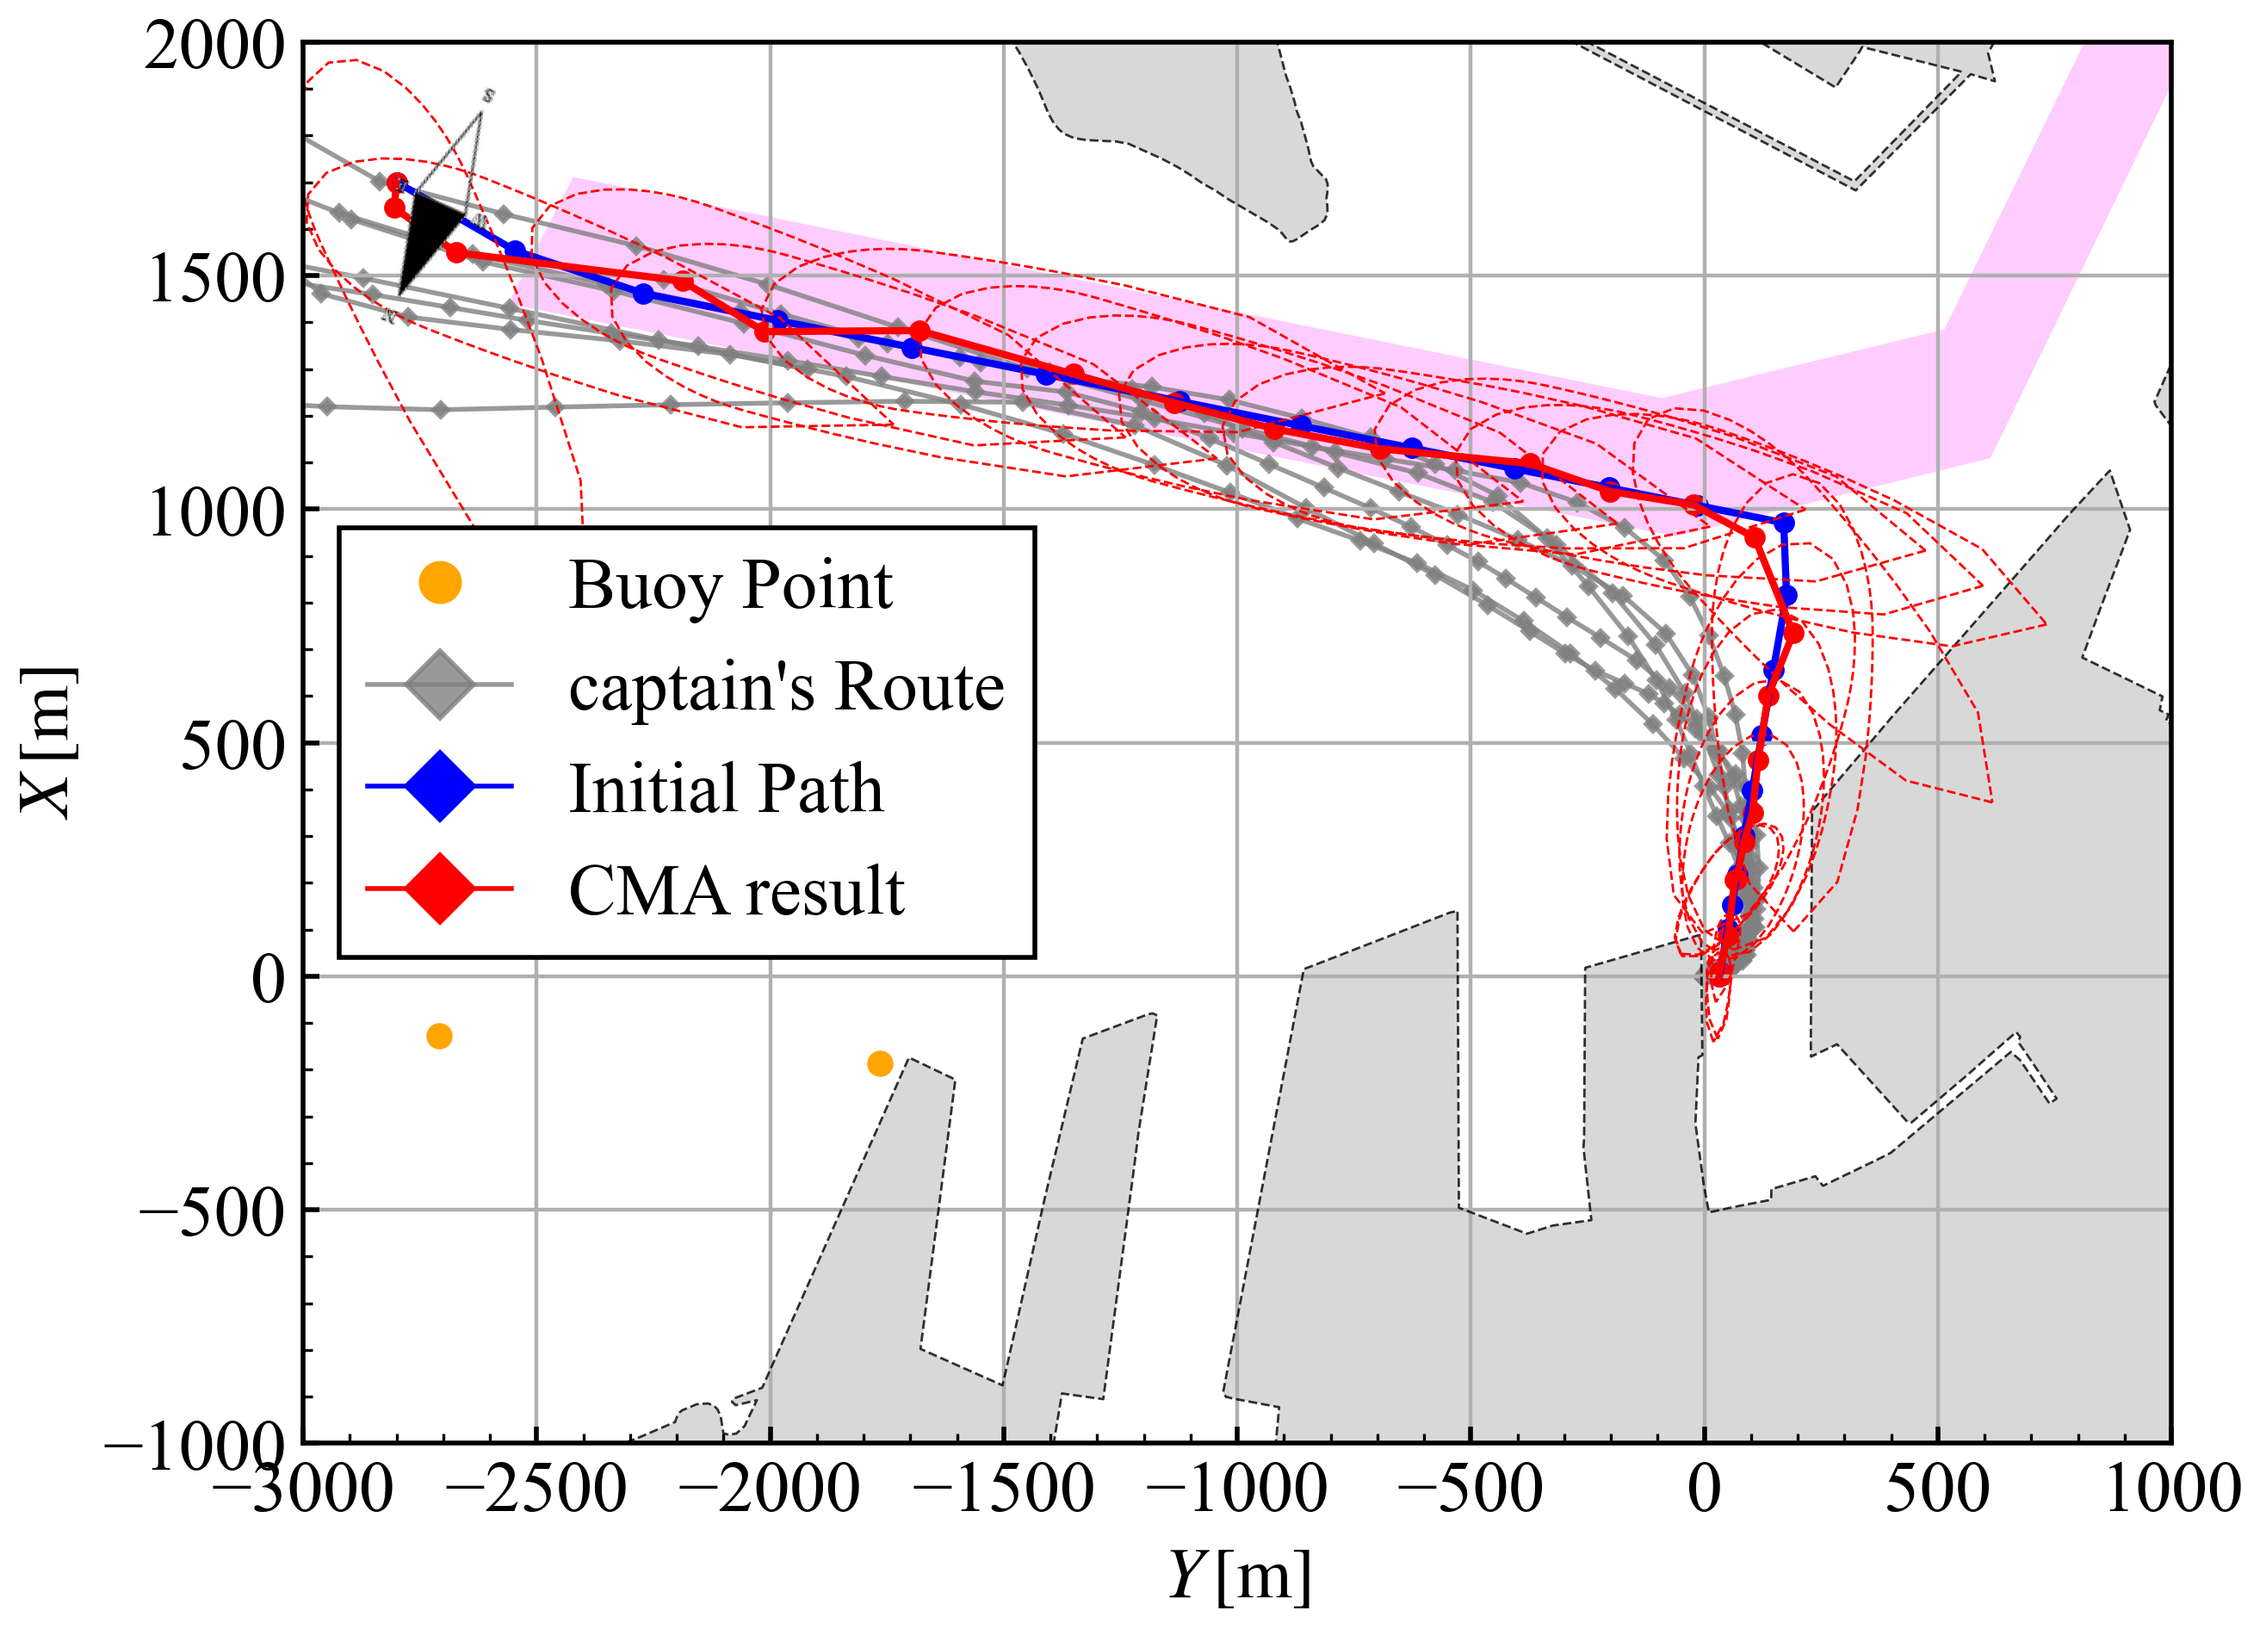
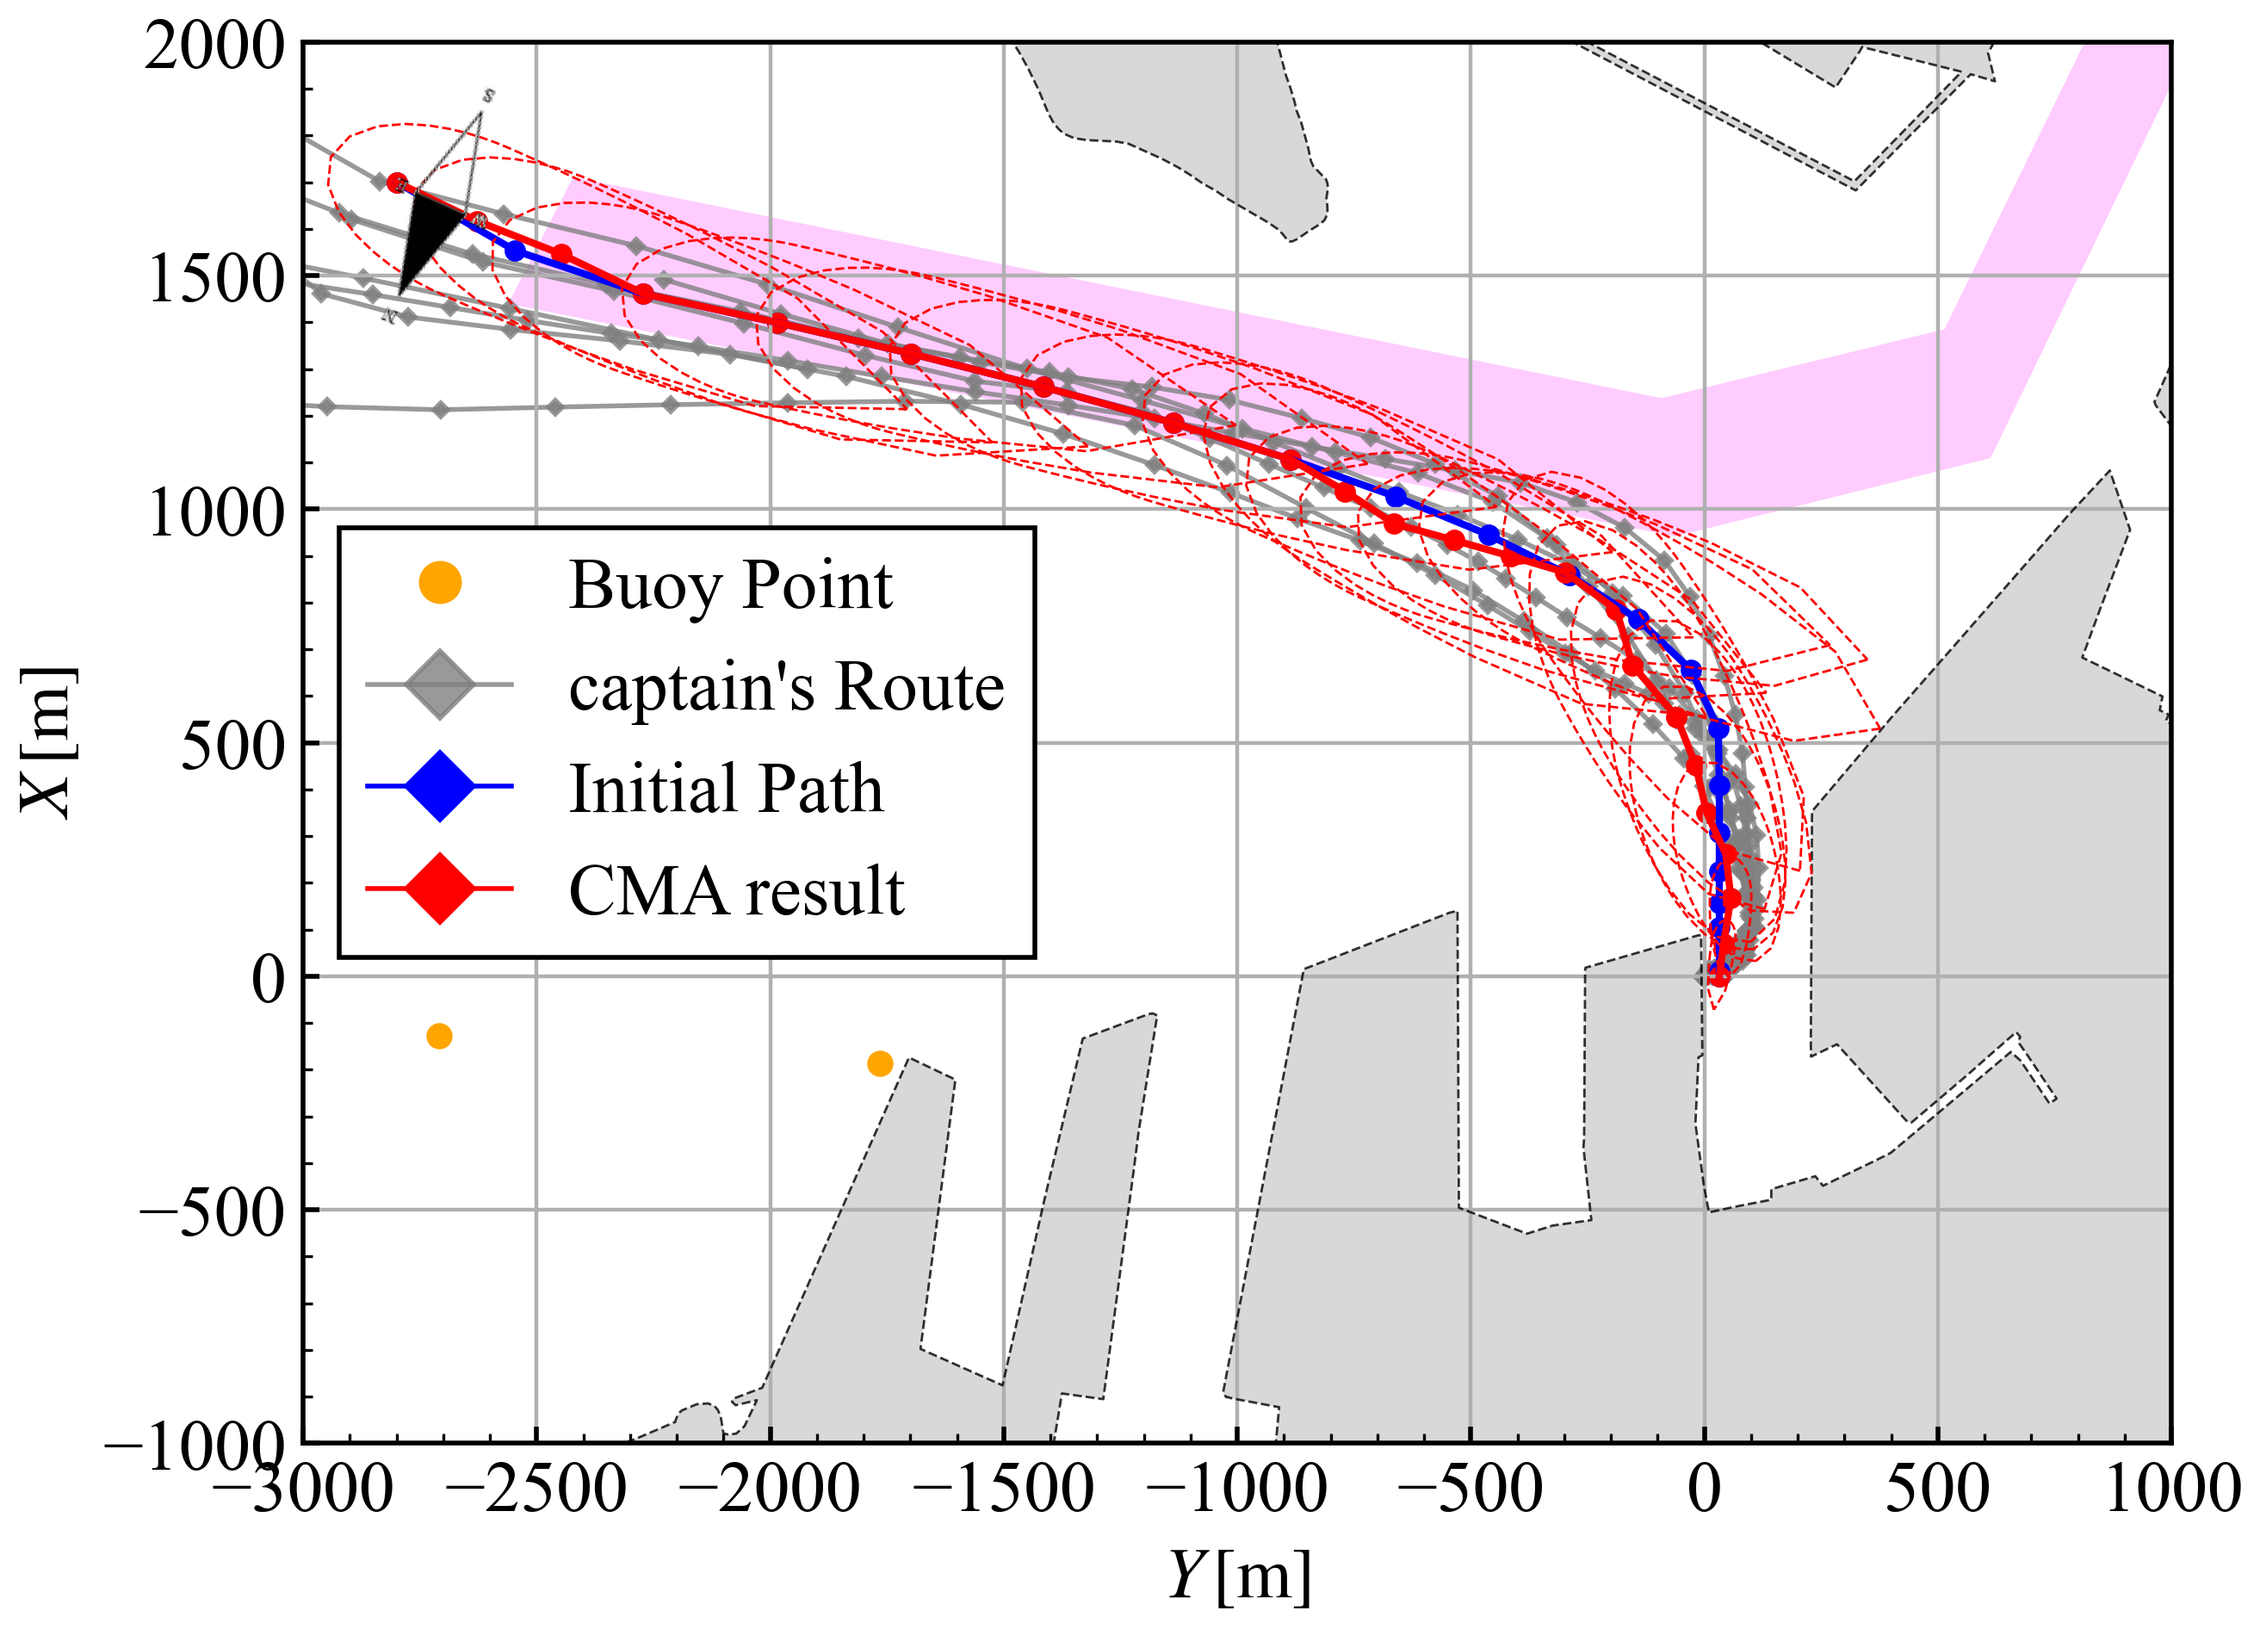
betaで最適化？

Changed region(s): [[0.1562, 0.0936, 0.8747, 0.6237]]

diff --git a/program/path_planning/CMA-ES3.py b/program/path_planning/CMA-ES3.py
@@ -17,6 +17,7 @@ from typing import ClassVar, Tuple
 from tqdm.auto import tqdm
 
 from utils.LDA.ship_geometry import *
+from utils.PP import Bezier_curve as Bezier
 from utils.PP.E_ddCMA import DdCma, Checker, Logger
 from utils.PP.graph_by_taneichi import ShipDomain_proposal
 from utils.PP.MultiPlot import RealTraj
@@ -38,6 +39,7 @@ class Setting:
         self.B = 16.0
 
         # CMA-ES
+        self.target = "point"
         self.seed: int = 42
         self.MAX_SPEED_KTS: float = 9.5  # [knots]
         self.MIN_SPEED_KTS: float = 1.5  # [knots]
@@ -204,6 +206,12 @@ class CostCalculator:
             pen += w_out * float(np.sum((d / eps) ** p))
 
         return pen
+    
+    def turnig_angle(self, pt, beta):
+        straight = np.linalg.norm(self.lines[0].end_pt - self.lines[-1].end_pt)
+        dist = np.linalg.norm(pt - self.lines[-1].end_pt)
+        return (dist / straight) * beta
+
 
 def convert(df, port_file, col_lat="lat", col_lon="lon"):
     df_coord = pd.read_csv(port_file)
@@ -346,6 +354,8 @@ class MakeLine:
         self.cal = cal
 
         self.init_pts = self.resampling(self.init_route)
+        self.init_spi_list, self.init_beta_list = self.set_beta(self.init_pts)
+        self.show_beta_pt(self.init_pts, self.init_spi_list, self.init_beta_list)
         print("initial point calculated\n")
         self.initial_D = self.cal_sigma_for_ddCMA(points=self.init_pts,
                                                   last_point=self.lines[-1].end_pt
@@ -639,16 +649,13 @@ class MakeLine:
         Line.lane = shapely.union_all(lane_polys)
 
         # from birth point
+        theta = 0
         margin = 2*self.ps.B
         if port["psi_end"] == 0:
-            if port["side"] == "port":
-                theta = 10
-                margin = 2*self.ps.B
-            elif port["side"] == "starboard":
-                theta = 0
+            if port["side"] == "starboard":
                 margin = -self.ps.B
             if port["style"] == "head in":
-                theta = 180 - theta
+                theta = 180
             theta = np.deg2rad(theta)
         else:
             theta = np.deg2rad(port["psi_end"] + 10)
@@ -768,44 +775,52 @@ class MakeLine:
 
         costs = np.zeros(arr.shape[0], dtype=float)
         for i in range(arr.shape[0]):
-            pts = arr[i].reshape(-1, 2)
-            poly = np.vstack([start, pts, end])
-            # length
-            # 航路長の基準を作る
-            d = np.linalg.norm(poly[1:] - poly[:-1], axis=1)
-            total_length = d.sum()
-            ratio = (total_length / straight_length) * 100 - 100  # [%]
+            if self.ps.target == "point":
+                pts = arr[i].reshape(-1, 2)
+                poly = np.vstack([start, pts, end])
+                # length
+                # 航路長の基準を作る
+                d = np.linalg.norm(poly[1:] - poly[:-1], axis=1)
+                total_length = d.sum()
+                ratio = (total_length / straight_length) * 100 - 100  # [%]
 
-            # Ship Domain Penalty
-            # 衝突している点の数を数える
-            SD_cost = 0.0
-            idx = np.where(~cal.inside0)[0]
-            idx = idx[(idx >= 1) & (idx <= len(poly) - 2)]
+                # Ship Domain Penalty
+                # 衝突している点の数を数える
+                SD_cost = 0.0
+                idx = np.where(~cal.inside0)[0]
+                idx = idx[(idx >= 1) & (idx <= len(poly) - 2)]
 
-            ## check point
-            for j in idx:
-                SD_cost += cal.ShipDomain_penalty(poly[j - 1], poly[j], poly[j + 1])
+                ## check point
+                for j in idx:
+                    SD_cost += cal.ShipDomain_penalty(poly[j - 1], poly[j], poly[j + 1])
 
-            ## mid point
-            for j in idx:
-                mid = (poly[j] + poly[j + 1]) / 2
-                parent = poly[j - 1] if j - 1 >= 0 else poly[j]
-                child  = poly[j + 2] if j + 2 < len(poly) else poly[j+1]
-                SD_cost += cal.ShipDomain_penalty(parent, mid, child)
+                ## mid point
+                for j in idx:
+                    mid = (poly[j] + poly[j + 1]) / 2
+                    parent = poly[j - 1] if j - 1 >= 0 else poly[j]
+                    child  = poly[j + 2] if j + 2 < len(poly) else poly[j+1]
+                    SD_cost += cal.ShipDomain_penalty(parent, mid, child)
 
-            # Space Penalty
-            space_cost = 0.0
-            for j in range(len(poly) - 1):
-                space_cost += cal.spacing_penalty(poly[j], poly[j+1])
+                # Space Penalty
+                space_cost = 0.0
+                for j in range(len(poly) - 1):
+                    space_cost += cal.spacing_penalty(poly[j], poly[j+1])
 
-            # Shippping lane
-            lane_reward = cal.ShippingLane(poly)
+                # Shippping lane
+                lane_reward = cal.ShippingLane(poly)
 
-            total = (self.length_coeff * ratio
-                     + self.SD_coeff * SD_cost
-                     + self.space_coeff * space_cost
-                     + self.lane_coeff * lane_reward)
-            costs[i] = total
+                total = (self.length_coeff * ratio
+                        + self.SD_coeff * SD_cost
+                        + self.space_coeff * space_cost
+                        + self.lane_coeff * lane_reward)
+                costs[i] = total
+            
+            elif self.ps.target == "beta":
+                beta_list = arr[i].reshape(-1, 1)
+                pts = None
+                for j in range(len(pts)):
+                    pt = pts[j], beta=beta_list[j]
+                    turn_cost = cal.turnig_angle(pt, beta)
 
         return float(costs[0]) if not batched else costs
 
@@ -890,30 +905,50 @@ class MakeLine:
     def resampling(self, pts):
         """
         初期経路に合わせて自動で分割. グリッドを時間で分割
+        pts : 真上のinit_route
         """
         ax = self.ax
         end_pt = pts[-1]
 
-        seg_len = np.linalg.norm(pts[1:] - pts[:-1], axis=1)
-        s_cum = np.concatenate([[0.0], np.cumsum(seg_len)])
-        total_len = s_cum[-1]
+        def cal_total_len(pts):
+            seg_len = np.linalg.norm(pts[1:] - pts[:-1], axis=1)
+            s_cum = np.concatenate([[0.0], np.cumsum(seg_len)])
+            total_len = s_cum[-1]
+            return seg_len, s_cum, total_len
 
-        def interp(u):
+        def interp(u, pts):
+            """
+            u : 開始地点からの距離[m]
+            """
             i = np.searchsorted(s_cum, u, side="right") - 1
             i = int(np.clip(i, 0, len(seg_len) - 1))
             a = (u - s_cum[i]) / seg_len[i]
             return pts[i] + (pts[i + 1] - pts[i]) * a
 
+        # Bezierを使う点とCMAを使う点を分割
+        seg_len, s_cum, total_len = cal_total_len(pts)
+        u_split = np.clip(total_len - 500, 0.0, total_len)
+        i = np.searchsorted(s_cum, u_split, side="right") - 1
+        i = int(np.clip(i, 0, len(seg_len) - 1))
+        split_pt = interp(u_split, pts)
+        bezier_pts = np.vstack([pts[1:i+1], split_pt])
+        barthing_pts = pts[i+1:]
+
+        # s_cumを更新
+        aproach_pts, _ = Bezier.bezier(bezier_pts, 100)
+        poly = np.vstack([pts[0], aproach_pts, barthing_pts])
+        seg_len, s_cum, total_len = cal_total_len(poly)
+
         out = [pts[0].copy()]
         u = 0.0
         while u < total_len:
-            curent_pt = interp(u)
+            curent_pt = interp(u, poly)
             speed_kt = cal_speed(self, curent_pt, end_pt)
             if speed_kt == self.ps.MIN_SPEED_KTS:
                 speed_kt = self.ps.MIN_SPEED_KTS * 2
             speed = speed_kt *1852 / 60 # [m/min]
             u = min(u + speed, total_len)
-            out.append(interp(u) if u < total_len else pts[-1].copy())
+            out.append(interp(u, poly) if u < total_len else pts[-1].copy())
 
         # show
         out_pt = np.asarray(out, dtype=float).reshape(-1, 2)
@@ -931,7 +966,48 @@ class MakeLine:
         h.remove()
 
         return np.asarray(out, dtype=float)
+    
+    def set_beta(self, init_pts):
+        n = len(init_pts)
+        beta_list = np.zeros(n, dtype=float)
+        dy = init_pts[1:, 0] - init_pts[:-1, 0]
+        dx = init_pts[1:, 1] - init_pts[:-1, 1]
 
+        psi = np.zeros(n - 1, dtype=float)
+        for k in range(n - 1):
+            psi[k] = np.arctan2(dy[k], dx[k])
+
+        def wrap_pi(a):
+            return np.arctan2(np.sin(a), np.cos(a))
+
+        for i in range(1, n - 1):
+            beta_list[i] = wrap_pi(psi[i] - psi[i - 1]) if i <= n - 2 else 0.0
+
+        # 最終方位角に合わせてbetaを分配
+        mask = np.linalg.norm(init_pts - init_pts[-1], axis=1) < 500
+        m = np.where(~mask)[0][-1]
+        beta_list[mask] = (- 2 * np.pi - psi[m]) / len(np.arange(m+1, len(init_pts) - 1) - 1)
+
+        beta_list[0] = 0.0
+        beta_list[-1] = 0.0
+
+        return psi, beta_list
+    
+    def show_beta_pt(self, init_pts, psi_list, beta_list):
+        ax = self.ax
+        d = float(self.ps.L) / 4
+        psi_list = np.r_[psi_list, psi_list[-1] + np.pi]
+
+        dx0 = -d * np.cos(psi_list); dy0 = -d * np.sin(psi_list)
+        cb = np.cos(beta_list); sb = np.sin(beta_list)
+
+        dx = cb * dx0 - sb * dy0; dy = sb * dx0 + cb * dy0
+        beta_pts = np.column_stack([init_pts[:, 0] + dy, init_pts[:, 1] + dx])
+        ax.plot(beta_pts[:, 1], beta_pts[:, 0], color="red", linestyle='-')
+        ax.scatter(beta_pts[:, 1], beta_pts[:, 0], c="r",s=12, marker="o")
+        plt.savefig(os.path.join(self.SAVE_DIR, f"psi.png"),
+                    dpi=400, bbox_inches="tight", pad_inches=0.05)
+        print("A")
 
     def show_CMA_path(self, best_mean, restart):
         ax = self.ax
@@ -951,7 +1027,6 @@ class MakeLine:
                                         color = 'red', ls = '-', marker = 'D',
                                         markersize = 2, lw = 1.0, label="CMA result")
             self.regends.append(legend_path)
-        
 
         # ship domain
         theta = np.deg2rad(np.arange(0, 360, 10))
